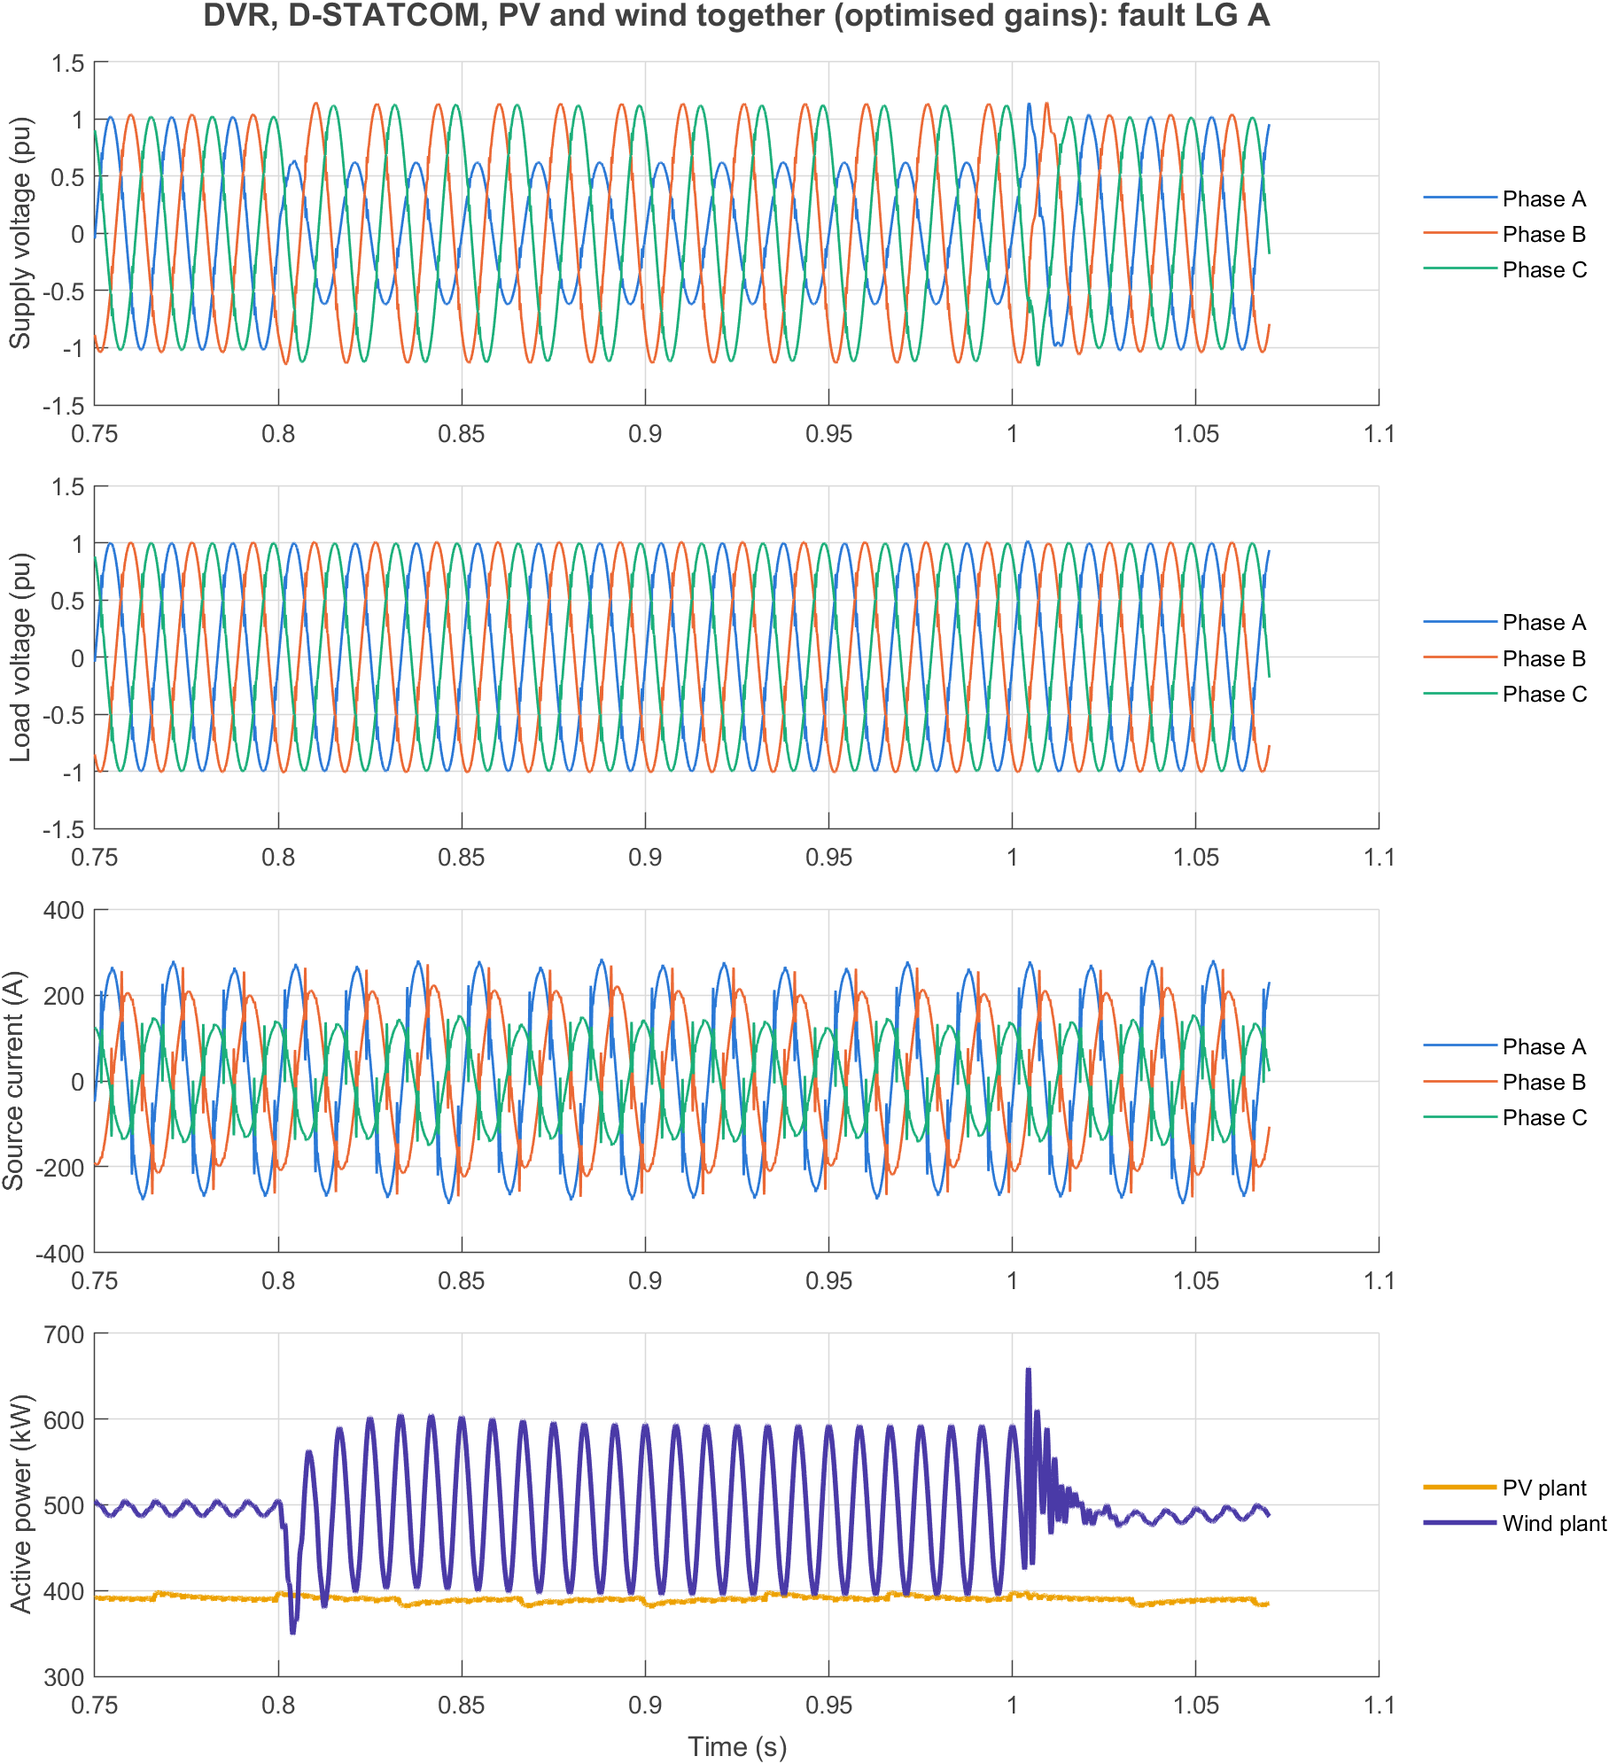
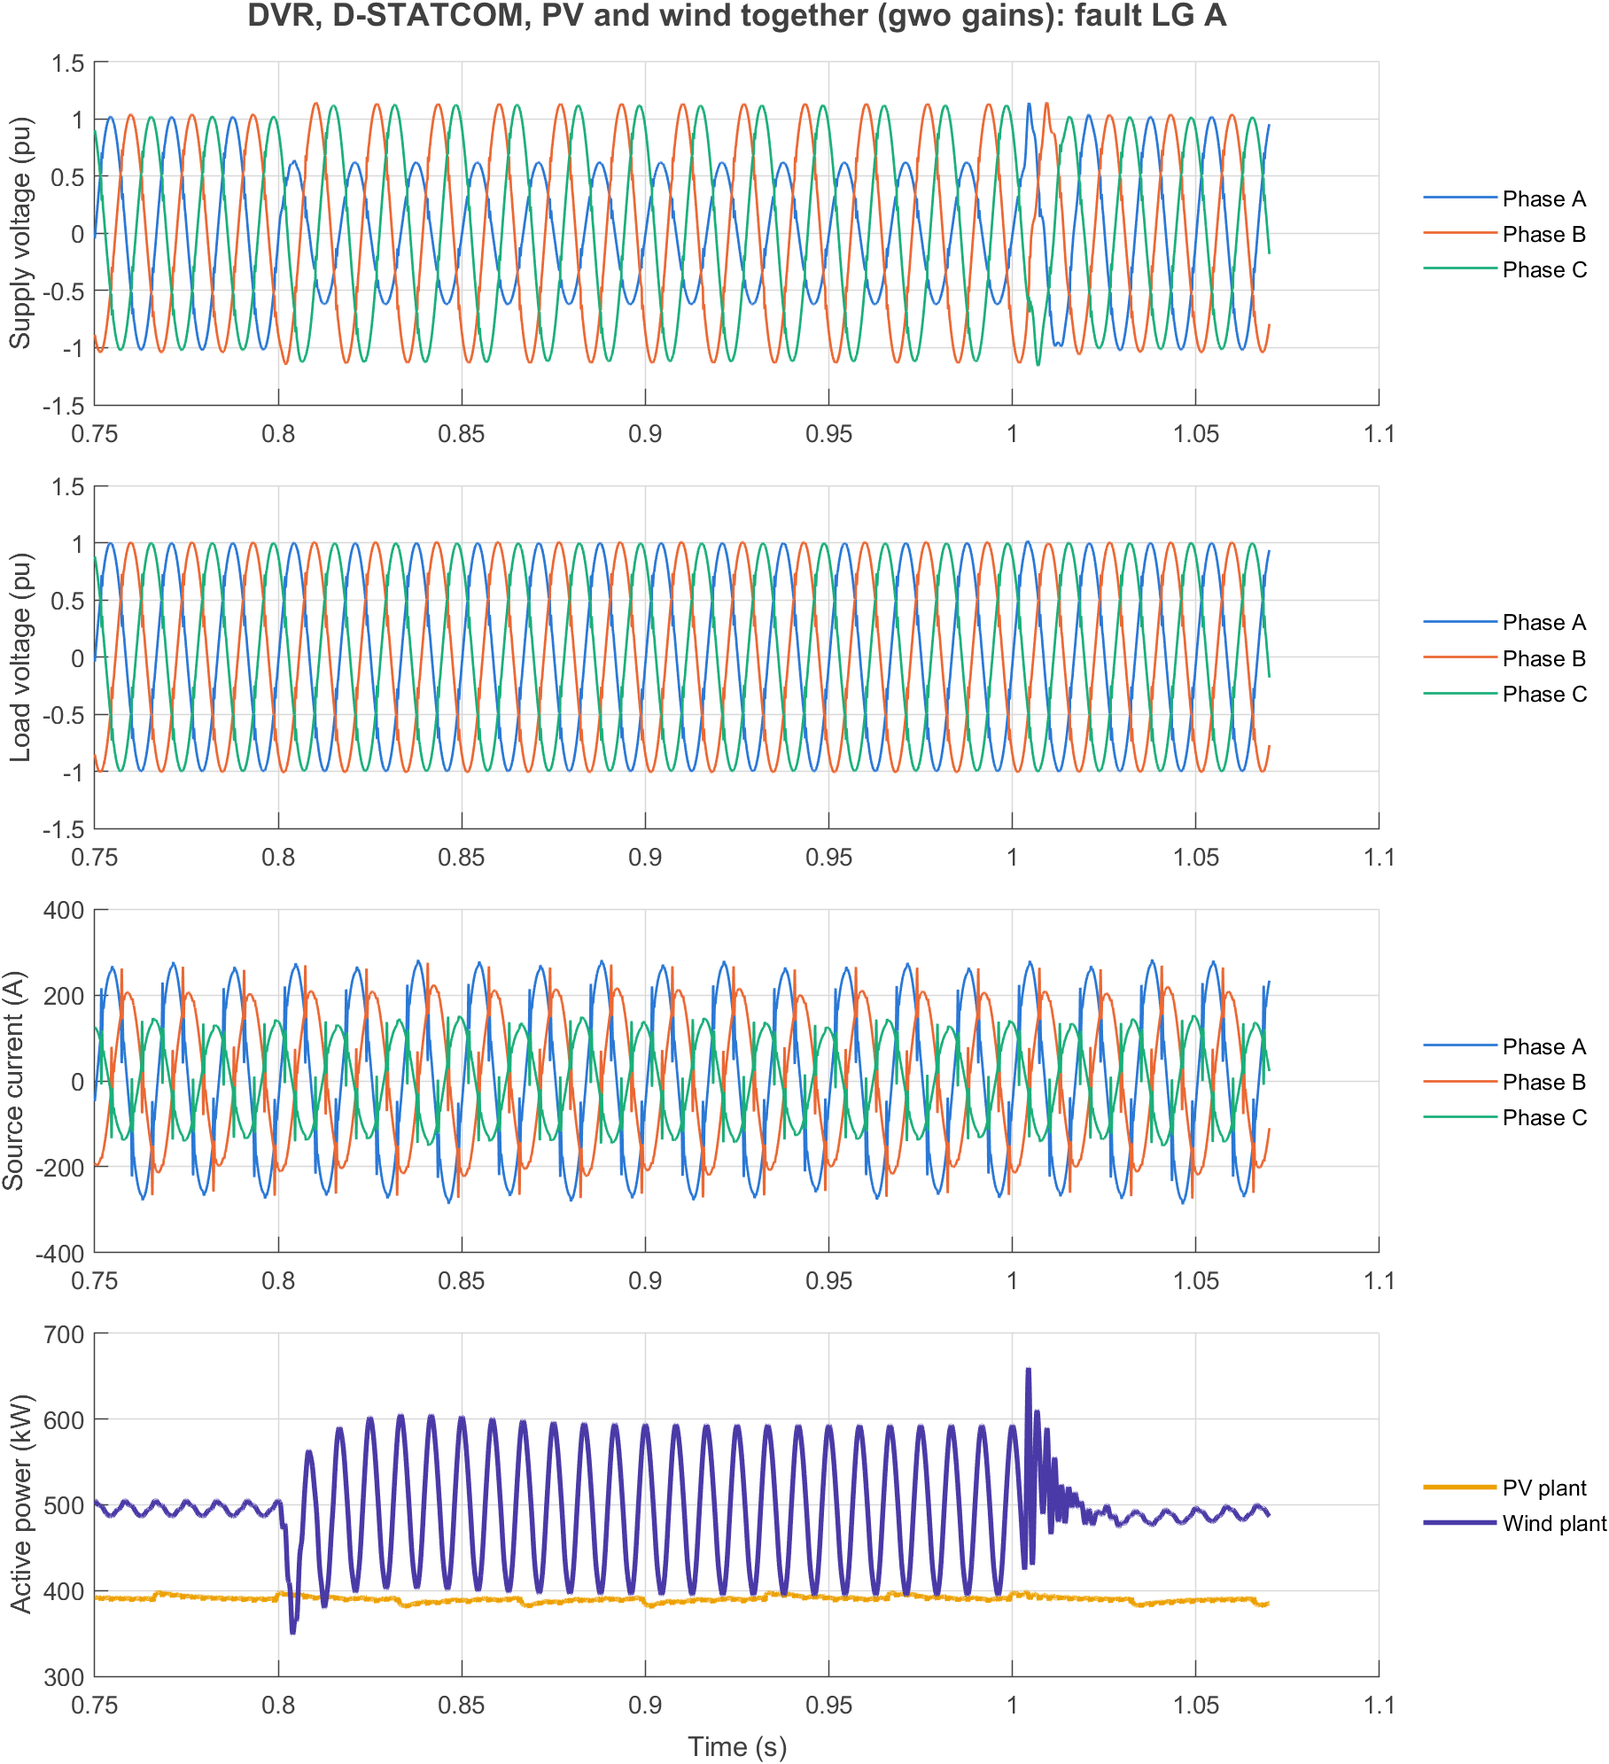
Add grey wolf optimisation and three-way comparison of gain sets

diff --git a/scripts/optimise_gains.m b/scripts/optimise_gains.m
@@ -1,11 +1,15 @@
-function best = optimise_gains()
-% Particle swarm optimisation of the PI gains of the D-STATCOM and the DVR
-% on IEEE13_full.slx. Each candidate is scored by one simulation with a
-% single line-to-ground fault (a sag and a swell together); see
-% full_metrics for the cost. Writes results/optim_best.csv,
-% results/optim_history.csv and results/optim_convergence.png.
-% Run build_basecase and build_full first. Takes roughly half an hour.
+function best = optimise_gains(method)
+% Optimises the PI gains of the D-STATCOM and the DVR on IEEE13_full.slx.
+%   method  'pso' particle swarm (default) or 'gwo' grey wolf optimiser
+% Each candidate is scored by one simulation with a single line-to-ground
+% fault (a sag and a swell together); see full_metrics for the cost.
+% Both methods use 8 agents, 6 iterations and the same starting population,
+% which includes the hand-tuned gains.
+% Writes results/optim_<method>_best.csv, results/optim_<method>_history.csv
+% and results/optim_convergence.png (all methods run so far).
+% Run build_basecase and build_full first. Takes about 10 minutes.
 
+if nargin < 1, method = 'pso'; end
 root = fileparts(fileparts(mfilename('fullpath')));
 outd = fullfile(root, 'results');
 if ~exist(outd, 'dir'), mkdir(outd); end
@@ -17,8 +21,9 @@ lb = [ 500 0.2   2 0    20];
 ub = [2500 5   200 0.9 2000];
 tl = struct('tNL', 0.3, 'tDev', 0.35, 'tOn', 0.55, 'tOff', 0.7, 'tStop', 0.8, ...
     'tSteady', 0.49, 'tFault', 0.62);
+agents = 8; iters = 6; d = numel(x0);
 
-hist = zeros(0, numel(x0) + 1);
+hist = zeros(0, d + 1);
     function J = cost(X)
         in = Simulink.SimulationInput.empty;
         for k = 1:size(X, 1)
@@ -32,35 +37,76 @@ hist = zeros(0, numel(x0) + 1);
             J(k) = m.J;
         end
         hist = [hist; X J];
-        fprintf('evaluated %d candidates, best so far %.3f\n', size(hist, 1), min(hist(:, end)));
+        fprintf('%s: evaluated %d candidates, best so far %.3f\n', ...
+            method, size(hist, 1), min(hist(:, end)));
     end
 
-rng(1);                                         % repeatable run
-swarm = 8;
-init = [x0; lb + rand(swarm - 1, numel(x0)) .* (ub - lb)];
-opt = optimoptions('particleswarm', 'SwarmSize', swarm, 'MaxIterations', 6, ...
-    'UseVectorized', true, 'InitialSwarmMatrix', init, 'Display', 'iter');
-[best, Jbest] = particleswarm(@cost, numel(x0), lb, ub, opt);
+rng(1);                                         % repeatable, same start for both
+init = [x0; lb + rand(agents - 1, d) .* (ub - lb)];
 
-writematrix(best, fullfile(outd, 'optim_best.csv'));
-H = array2table(hist, 'VariableNames', [names {'cost'}]);
-writetable(H, fullfile(outd, 'optim_history.csv'));
-fprintf('baseline cost %.3f, optimised cost %.3f\n', hist(1, end), Jbest);
-disp(array2table([x0; best], 'VariableNames', names, 'RowNames', {'hand_tuned', 'optimised'}));
+switch lower(method)
+    case 'pso'
+        opt = optimoptions('particleswarm', 'SwarmSize', agents, 'MaxIterations', iters, ...
+            'UseVectorized', true, 'InitialSwarmMatrix', init, 'Display', 'iter');
+        [best, Jbest] = particleswarm(@cost, d, lb, ub, opt);
+    case 'gwo'
+        % Grey wolf optimiser (Mirjalili et al., 2014): every wolf moves
+        % toward the three best positions found so far, with a step that
+        % shrinks from exploration (a = 2) to exploitation (a = 0).
+        X = init; J = cost(X);
+        [Js, order] = sort(J);
+        lead = X(order(1:3), :); leadJ = Js(1:3);       % alpha, beta, delta
+        for it = 1:iters
+            a = 2 - 2*it/iters;
+            Xn = zeros(size(X));
+            for k = 1:3
+                A = 2*a*rand(agents, d) - a;
+                C = 2*rand(agents, d);
+                Xn = Xn + lead(k, :) - A .* abs(C .* lead(k, :) - X);
+            end
+            X = min(max(Xn/3, lb), ub);
+            J = cost(X);
+            [Js, order] = sort([leadJ; J]);
+            pool = [lead; X];
+            lead = pool(order(1:3), :); leadJ = Js(1:3);
+        end
+        best = lead(1, :); Jbest = leadJ(1);
+    otherwise
+        error('method must be ''pso'' or ''gwo''');
+end
 
-% Convergence: best cost found after each swarm evaluation
+writematrix(best, fullfile(outd, sprintf('optim_%s_best.csv', method)));
+writetable(array2table(hist, 'VariableNames', [names {'cost'}]), ...
+    fullfile(outd, sprintf('optim_%s_history.csv', method)));
+fprintf('%s: baseline cost %.3f, optimised cost %.3f\n', method, hist(1, end), Jbest);
+disp(array2table([x0; best], 'VariableNames', names, 'RowNames', {'hand_tuned', method}));
+
+plot_convergence(outd, agents);
+end
+
+function plot_convergence(outd, agents)
+% Best cost found after each evaluation of the population, per method
 ink = [0.25 0.25 0.25];
-it = (0:size(hist, 1)/swarm - 1)';
-bestSoFar = cummin(min(reshape(hist(:, end), swarm, []), [], 1))';
+meth = {'pso', 'gwo'}; lab = {'Particle swarm', 'Grey wolf'};
+col = [42 120 214; 235 104 52] / 255;
 fig = figure('Visible', 'off', 'Color', 'w', 'Position', [100 100 760 380]);
-ax = axes(fig); hold(ax, 'on');
-plot(ax, it, bestSoFar, '-o', 'Color', [42 120 214]/255, 'LineWidth', 2, ...
-    'MarkerFaceColor', [42 120 214]/255, 'MarkerSize', 6);
-yline(ax, hist(1, end), ':', 'hand-tuned gains', 'Color', ink, 'LabelHorizontalAlignment', 'right');
+ax = axes(fig); hold(ax, 'on'); used = {}; base = NaN;
+for k = 1:numel(meth)
+    f = fullfile(outd, sprintf('optim_%s_history.csv', meth{k}));
+    if ~exist(f, 'file'), continue; end
+    J = readmatrix(f); J = J(:, end); base = J(1);
+    b = cummin(min(reshape(J, agents, []), [], 1))';
+    plot(ax, (0:numel(b) - 1)', b, '-o', 'Color', col(k, :), 'LineWidth', 2, ...
+        'MarkerFaceColor', col(k, :), 'MarkerSize', 6);
+    used{end+1} = lab{k}; %#ok<AGROW>
+end
+yline(ax, base, ':', 'hand-tuned gains', 'Color', ink, ...
+    'LabelHorizontalAlignment', 'right', 'HandleVisibility', 'off');
 xlabel(ax, 'Iteration'); ylabel(ax, 'Best cost');
-title(ax, 'Particle swarm optimisation of the PI gains', 'Color', ink);
+title(ax, 'Optimisation of the PI gains', 'Color', ink);
+legend(ax, used, 'Location', 'eastoutside', 'Box', 'off');
 grid(ax, 'on'); box(ax, 'off'); ax.GridColor = [0.85 0.85 0.85]; ax.GridAlpha = 1;
-ax.XColor = ink; ax.YColor = ink; xticks(ax, it);
+ax.XColor = ink; ax.YColor = ink;
 exportgraphics(fig, fullfile(outd, 'optim_convergence.png'), 'Resolution', 200);
 close(fig);
 end

diff --git a/scripts/run_full.m b/scripts/run_full.m
@@ -1,8 +1,9 @@
 function T = run_full()
 % Runs the four fault scenarios on IEEE13_full.slx (DVR, D-STATCOM, PV and
-% wind together) with the hand-tuned gains and, if optimise_gains has been
-% run, with the optimised gains. Writes results/full_summary.csv and one
-% figure per fault. Run build_basecase and build_full first.
+% wind together) with the hand-tuned gains and with each set of gains found
+% by optimise_gains ('pso', 'gwo'). Writes results/full_summary.csv and one
+% figure per fault, drawn for the gain set with the lowest mean cost.
+% Run build_basecase and build_full first.
 
 root = fileparts(fileparts(mfilename('fullpath')));
 outd = fullfile(root, 'results');
@@ -13,10 +14,13 @@ tl = struct('tNL', 0.3, 'tDev', 0.4, 'tOn', 0.8, 'tOff', 1.0, 'tStop', 1.2, ...
 scen = {'fault_LLLG', 'ABC', 'on'; 'fault_LG_A', 'A', 'on'; ...
         'fault_LL_BC', 'BC', 'off'; 'fault_LLG_BC', 'BC', 'on'};
 sets = {'hand_tuned', [1500; 1; 15; 5; 500], [0.2; 200]};
-best = fullfile(outd, 'optim_best.csv');
-if exist(best, 'file')
-    x = readmatrix(best);
-    sets(2, :) = {'optimised', [x(1); x(2); x(3); 5; 500], [x(4); x(5)]};
+meth = {'pso', 'gwo'};
+for k = 1:numel(meth)
+    f = fullfile(outd, sprintf('optim_%s_best.csv', meth{k}));
+    if exist(f, 'file')
+        x = readmatrix(f);
+        sets(end+1, :) = {meth{k}, [x(1); x(2); x(3); 5; 500], [x(4); x(5)]}; %#ok<AGROW>
+    end
 end
 
 in = Simulink.SimulationInput.empty; tag = {};
@@ -35,9 +39,11 @@ for k = 1:numel(out)
         m.Vl_fault(1), m.Vl_fault(2), m.Vl_fault(3), m.Vunb_fault, m.eV, ...
         m.PF, m.Q_kvar, m.THDi, m.TDD, m.Iunb, m.I2, m.THDv, m.VdcDev, m.Pdvr_kW, m.Edvr_kJ, ...
         m.Ppv_kW, m.Pwind_kW, m.wind_ceased, m.J}; %#ok<AGROW>
-    if strcmp(tag{k, 1}, sets{end, 1})
-        plot_scenario(out(k), tag{k, 2}, tag{k, 1}, tl, outd);
-    end
+end
+J = cell2mat(rows(:, end));
+[~, g] = min(arrayfun(@(i) mean(J(strcmp(tag(:, 1), sets{i, 1}))), 1:size(sets, 1)));
+for k = find(strcmp(tag(:, 1), sets{g, 1}))'
+    plot_scenario(out(k), tag{k, 2}, tag{k, 1}, tl, outd);
 end
 T = cell2table(rows, 'VariableNames', {'gains', 'scenario', ...
     'Vs_a_pu', 'Vs_b_pu', 'Vs_c_pu', 'Vl_a_pu', 'Vl_b_pu', 'Vl_c_pu', 'Vl_unb_pct', ...

diff --git a/README.md b/README.md
@@ -60,7 +60,7 @@ flowchart TD
 | 4 | D-STATCOM alone with PI control | Voltage regulation, THD, reactive power | Done |
 | 5 | DVR alone with PI control | Restored load voltage, injected voltage and energy | Done |
 | 6 | Add PV and wind plants | Feeder with hybrid DG under varying irradiance and wind | Done |
-| 7 | Combined model and offline optimisation (PSO) | Device location, rating and PI gains | Partly done: combined model built and PI gains optimised; location and rating not yet |
+| 7 | Combined model and offline optimisation (PSO and grey wolf) | Device location, rating and PI gains | Partly done: combined model built and PI gains optimised with both methods; location and rating not yet |
 | 8 | Dataset generation | Labelled disturbance cases from scripted runs | To do |
 | 9 | ML coordinator | Trained model, accuracy and inference time | To do |
 | 10 | Comparison of the three control cases | Tables and waveforms for all scenarios | To do |
@@ -267,55 +267,67 @@ the hand-tuned PI gains.
 
 ![Combined model, single line-to-ground fault](results/full_fault_LG_A.png)
 
+(The figure is drawn with the grey wolf gains, the set with the lowest mean cost.)
+
 ## Optimisation of the PI gains
 
-Particle swarm optimisation (8 particles, 6 iterations, 56 simulations) tunes
-five gains on the combined model. Each candidate is scored on one simulation
-with a single line-to-ground fault. The cost is
+Two optimisers tune five gains on the combined model: particle swarm (PSO) and
+the grey wolf optimiser (GWO). Both use 8 agents, 6 iterations (56 simulations)
+and the same starting population, which includes the hand-tuned gains. Each
+candidate is scored on one simulation with a single line-to-ground fault. The
+cost is
 
 `4 x load-voltage error + voltage THD + current distortion + negative-sequence current + 100 x (1 - power factor) + 0.2 x DC-link deviation`
 
 with every term in percent and the two current terms taken against the
-transformer rating. The hand-tuned gains are one of the starting particles.
+transformer rating.
 
-| Gain | Hand-tuned | Optimised | Search range |
+| Gain | Hand-tuned | PSO | GWO | Search range |
+|---|---|---|---|---|
+| D-STATCOM current-loop bandwidth (Hz) | 1500 | 1755 | 1570 | 500 to 2500 |
+| D-STATCOM DC-link Kp (A/V) | 1.0 | 2.35 | 2.35 | 0.2 to 5 |
+| D-STATCOM DC-link Ki (A/V/s) | 15 | 105 | 27 | 2 to 200 |
+| DVR load-voltage Kp | 0.2 | 0.90 | 0.90 | 0 to 0.9 |
+| DVR load-voltage Ki | 200 | 20 | 319 | 20 to 2000 |
+| Cost on the tuning fault | 8.632 | 8.261 | 8.213 | |
+| Reduction from hand-tuned | | 4.3 % | 4.9 % | |
+
+Each gain set was then tested on all four fault types:
+
+| Quantity | Hand-tuned | PSO | GWO |
 |---|---|---|---|
-| D-STATCOM current-loop bandwidth (Hz) | 1500 | 1755 | 500 to 2500 |
-| D-STATCOM DC-link Kp (A/V) | 1.0 | 2.35 | 0.2 to 5 |
-| D-STATCOM DC-link Ki (A/V/s) | 15 | 105 | 2 to 200 |
-| DVR load-voltage Kp | 0.2 | 0.90 | 0 to 0.9 |
-| DVR load-voltage Ki | 200 | 20 | 20 to 2000 |
-
-The optimised gains were then tested on all four fault types:
-
-| Quantity | Hand-tuned | Optimised |
-|---|---|---|
-| Cost, four faults | 8.59 / 8.60 / 9.11 / 8.83 | 8.10 / 8.21 / 8.38 / 8.14 |
-| Load voltage THD (%) | 3.55 | 3.01 |
-| Negative-sequence source current (% of rating) | 0.74 | 0.65 |
-| Source current distortion (% of rating) | 3.02 | 3.05 |
-| Load voltage unbalance during fault, four faults (%) | 0.04 / 0.34 / 0.77 / 0.68 | 0.03 / 0.22 / 0.49 / 0.44 |
-| DC-link deviation (%) | 1.4 | 1.7 |
-
-The improvement is small: 4 % on the fault used for tuning and 5 to 8 % on the
-four test faults. The hand-tuned gains were already close to the best the PI
-structure can do here, so the remaining limits are structural (harmonic
-tracking of the current loop, and the wind plant outside the DVR) rather than
-a matter of tuning. Both DVR gains ended on the edge of their search range,
-which means the cost is not sensitive to them and those values should not be
-read as an optimum.
-
-A first run without the voltage THD term lowered its cost by 17 % but raised
-load voltage THD from 3.55 % to 4.68 %, so the term was added and the run
-repeated. Device location and rating have not been optimised.
+| Cost, four faults | 8.59 / 8.60 / 9.11 / 8.83 | 8.10 / 8.21 / 8.38 / 8.14 | 8.06 / 8.17 / 8.38 / 8.13 |
+| Load voltage THD (%) | 3.55 | 3.01 | 2.88 |
+| Negative-sequence source current (% of rating) | 0.74 | 0.65 | 0.71 |
+| Source current distortion (% of rating) | 3.02 | 3.05 | 3.14 |
+| Load voltage unbalance during fault, four faults (%) | 0.04 / 0.34 / 0.77 / 0.68 | 0.03 / 0.22 / 0.49 / 0.44 | 0.02 / 0.21 / 0.48 / 0.43 |
+| DC-link deviation (%) | 1.4 | 1.7 | 1.4 |
 
 ![Optimisation convergence](results/optim_convergence.png)
 
-To reproduce (the optimisation takes about 10 minutes on four cores and needs
-the Global Optimization and Parallel Computing toolboxes):
+- Both optimisers improve on the hand-tuned gains by a small amount: 4 to 5 %
+  on the fault used for tuning and 5 to 8 % on the four test faults.
+- GWO finishes 0.6 % below PSO. With one run each and 56 simulations, that
+  difference is too small to rank the two methods; repeated runs with
+  different seeds would be needed.
+- The two agree on the D-STATCOM DC-link Kp (2.35) and push the DVR Kp to the
+  top of its range, but disagree on both integral gains. The cost is not
+  sensitive to those, so they should not be read as optima.
+- The hand-tuned gains were already close to the best the PI structure can do
+  here. The remaining limits are structural (harmonic tracking of the current
+  loop, and the wind plant outside the DVR) rather than a matter of tuning.
+
+An earlier PSO run without the voltage THD term lowered its cost by 17 % but
+raised load voltage THD from 3.55 % to 4.68 %, so the term was added and the
+runs repeated. Device location and rating have not been optimised.
+
+To reproduce (each optimisation takes about 10 minutes on four cores and needs
+the Parallel Computing Toolbox; PSO also needs the Global Optimization
+Toolbox):
 
 ```matlab
-addpath('scripts'); build_basecase; build_full; optimise_gains; run_full;
+addpath('scripts'); build_basecase; build_full;
+optimise_gains('pso'); optimise_gains('gwo'); run_full;
 ```
 
 ## Contents
@@ -336,8 +348,8 @@ addpath('scripts'); build_basecase; build_full; optimise_gains; run_full;
 | `scripts/run_dvr.m` | Runs the DVR scenarios and writes the summary and figures |
 | `IEEE13_dg.slx` | Base-case model plus the PV plant at node 634 and the wind plant at node 675 |
 | `IEEE13_full.slx` | Base-case model plus the DVR, the D-STATCOM, the PV plant and the wind plant |
-| `scripts/build_full.m`, `scripts/run_full.m` | Build the combined model; run its four faults with hand-tuned and optimised gains |
-| `scripts/optimise_gains.m` | Particle swarm optimisation of the PI gains |
+| `scripts/build_full.m`, `scripts/run_full.m` | Build the combined model; run its four faults with the hand-tuned, PSO and GWO gains |
+| `scripts/optimise_gains.m` | Particle swarm and grey wolf optimisation of the PI gains |
 | `scripts/full_input.m`, `scripts/full_metrics.m` | One simulation setup of the combined model, and its performance measures and cost |
 | `scripts/add_dvr.m`, `scripts/add_dstatcom.m` | Add the DVR or the D-STATCOM to a model built from the base case |
 | `scripts/log_source_current.m` | Logs the source-side current at node 634 |
@@ -374,3 +386,4 @@ Charlotte, released under the MIT License (Copyright (c) 2023 Arun Suresh).
 8. R. K. Sah, H. Bhusal, N. K. Mahato, B. Tamang, "Impacts of Photovoltaic Penetration on Transient Stability of Power System," *Proc. 11th IOE Graduate Conference*, 2022.
 9. B. S. Goud, B. L. Rao, "Power Quality Enhancement in Grid-Connected PV/Wind/Battery Using UPQC: Atom Search Optimization," *Journal of Electrical Engineering & Technology*, vol. 16, pp. 821-835, 2021. doi:10.1007/s42835-020-00644-x
 10. S. K. Yadav, K. B. Yadav, A. Priyadarshi, "Performance analysis of three-phase solar PV, BESS, and Wind integrated UPQC for power quality improvement," *Computers and Electrical Engineering*, vol. 116, 109230, 2024. doi:10.1016/j.compeleceng.2024.109230
+11. S. Mirjalili, S. M. Mirjalili, A. Lewis, "Grey Wolf Optimizer," *Advances in Engineering Software*, vol. 69, pp. 46-61, 2014. (Method reference, cited from memory; not among the reviewed PDFs.)
